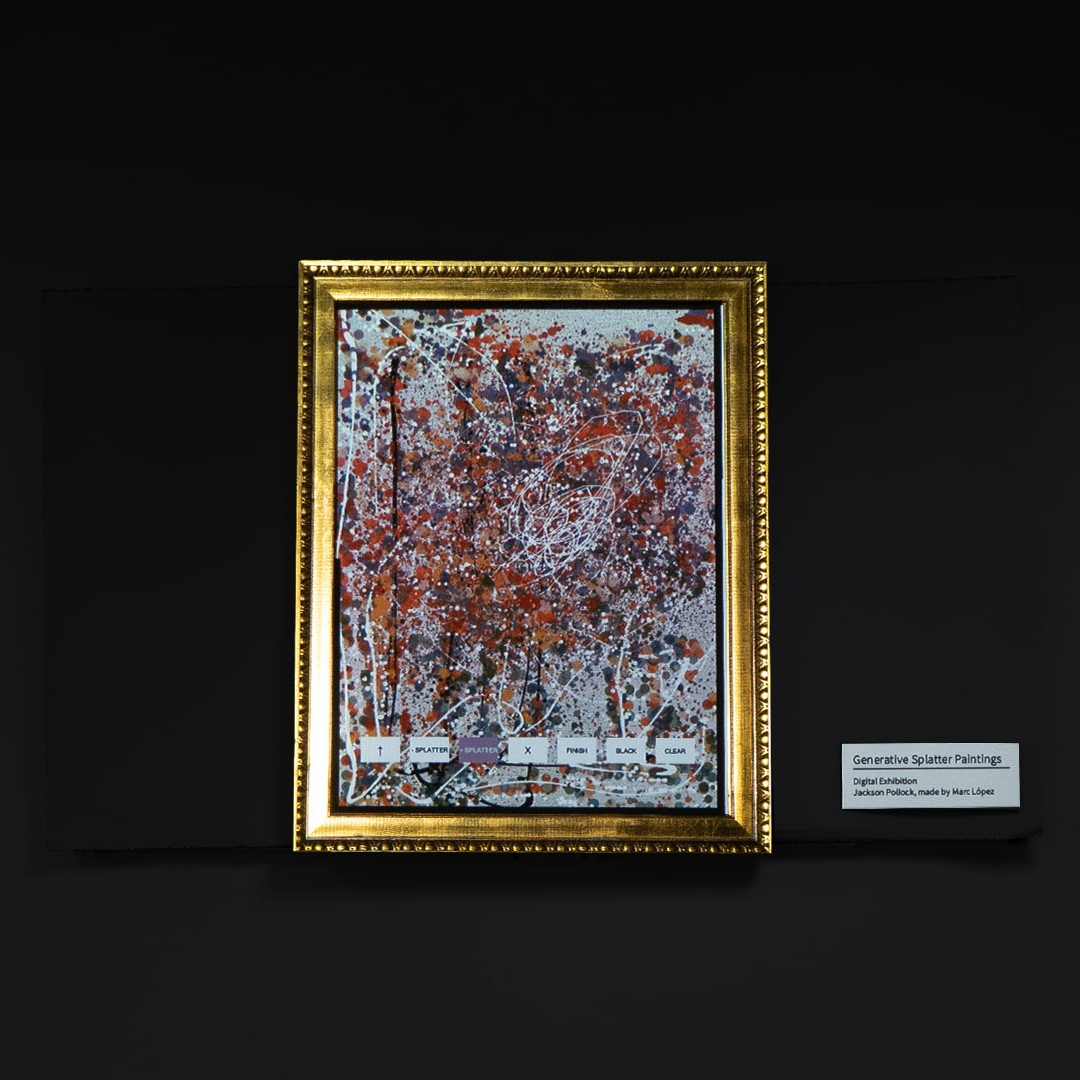
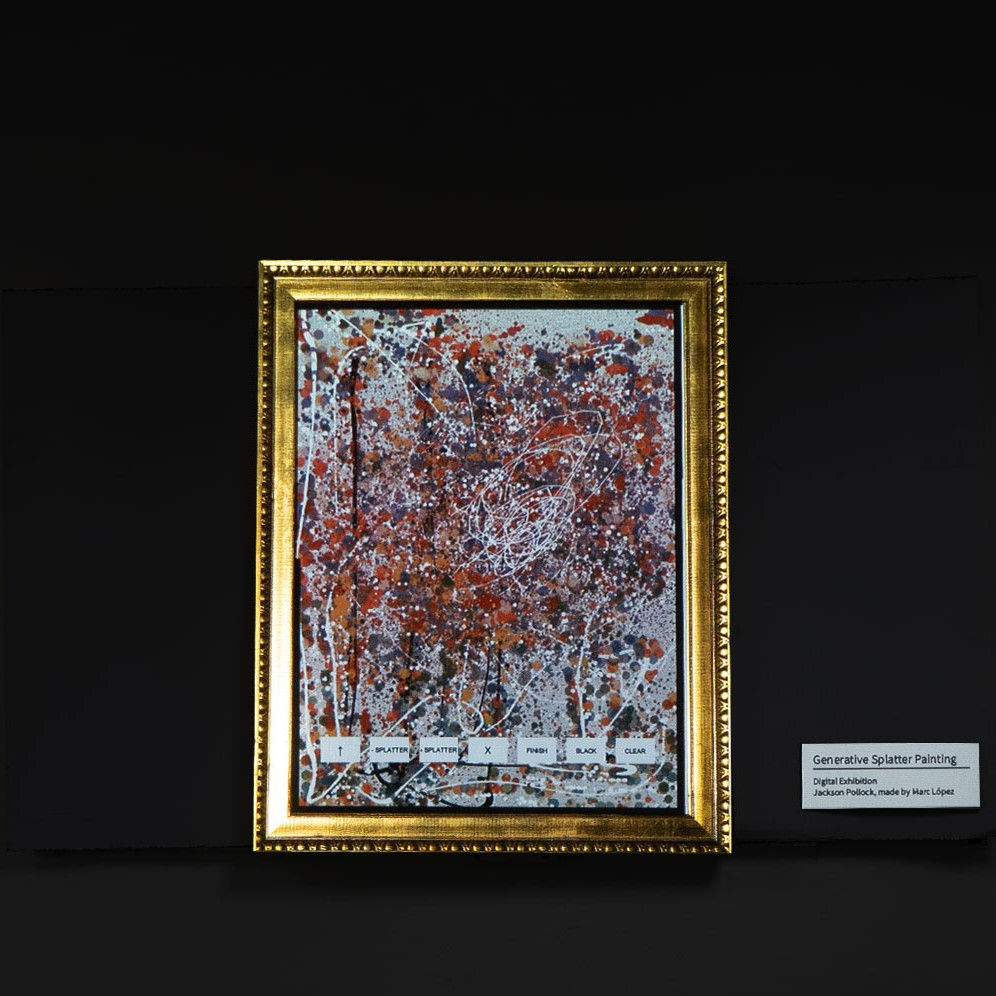
fixed tfg title

Changed region(s): [[0.249, 0.2179, 0.747, 0.8715], [0.7781, 0.6847, 0.996, 0.8404]]

diff --git a/src/data/data.js b/src/data/data.js
@@ -93,8 +93,8 @@ const works = [
   {
     num: 5,
     id: "work5",
-    title: "generative splatter paintings",
-    subtitle1: "digital representation of Pollock's Splatter Paintings",
+    title: "generative splatter painting",
+    subtitle1: "digital representation of Pollock's Splatter Painting",
     category: "developing",
     type: "generative art",
     description: "as a final degree project I developed an interactive exhibition where people could interact with an interface and create a Pollock Splatter Painting with complete freedom.",
